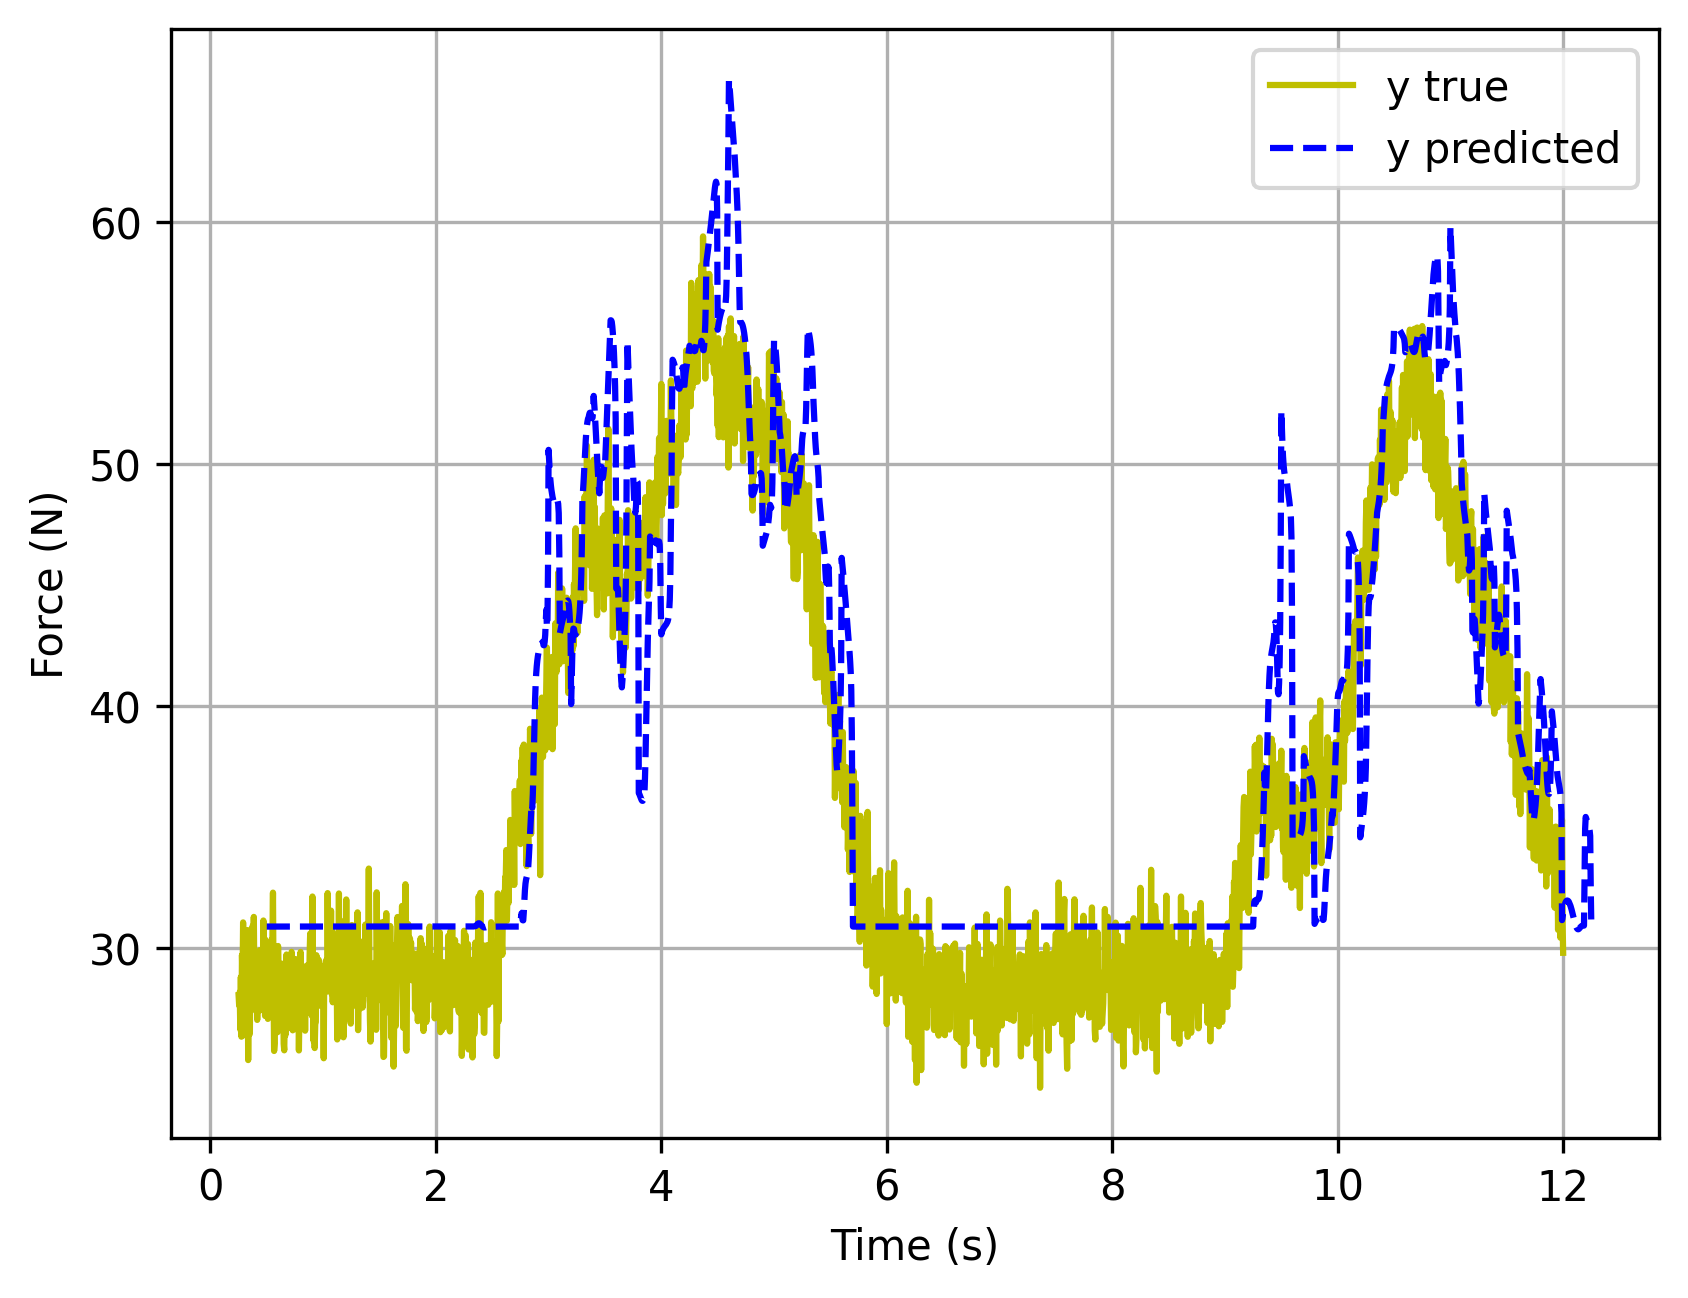
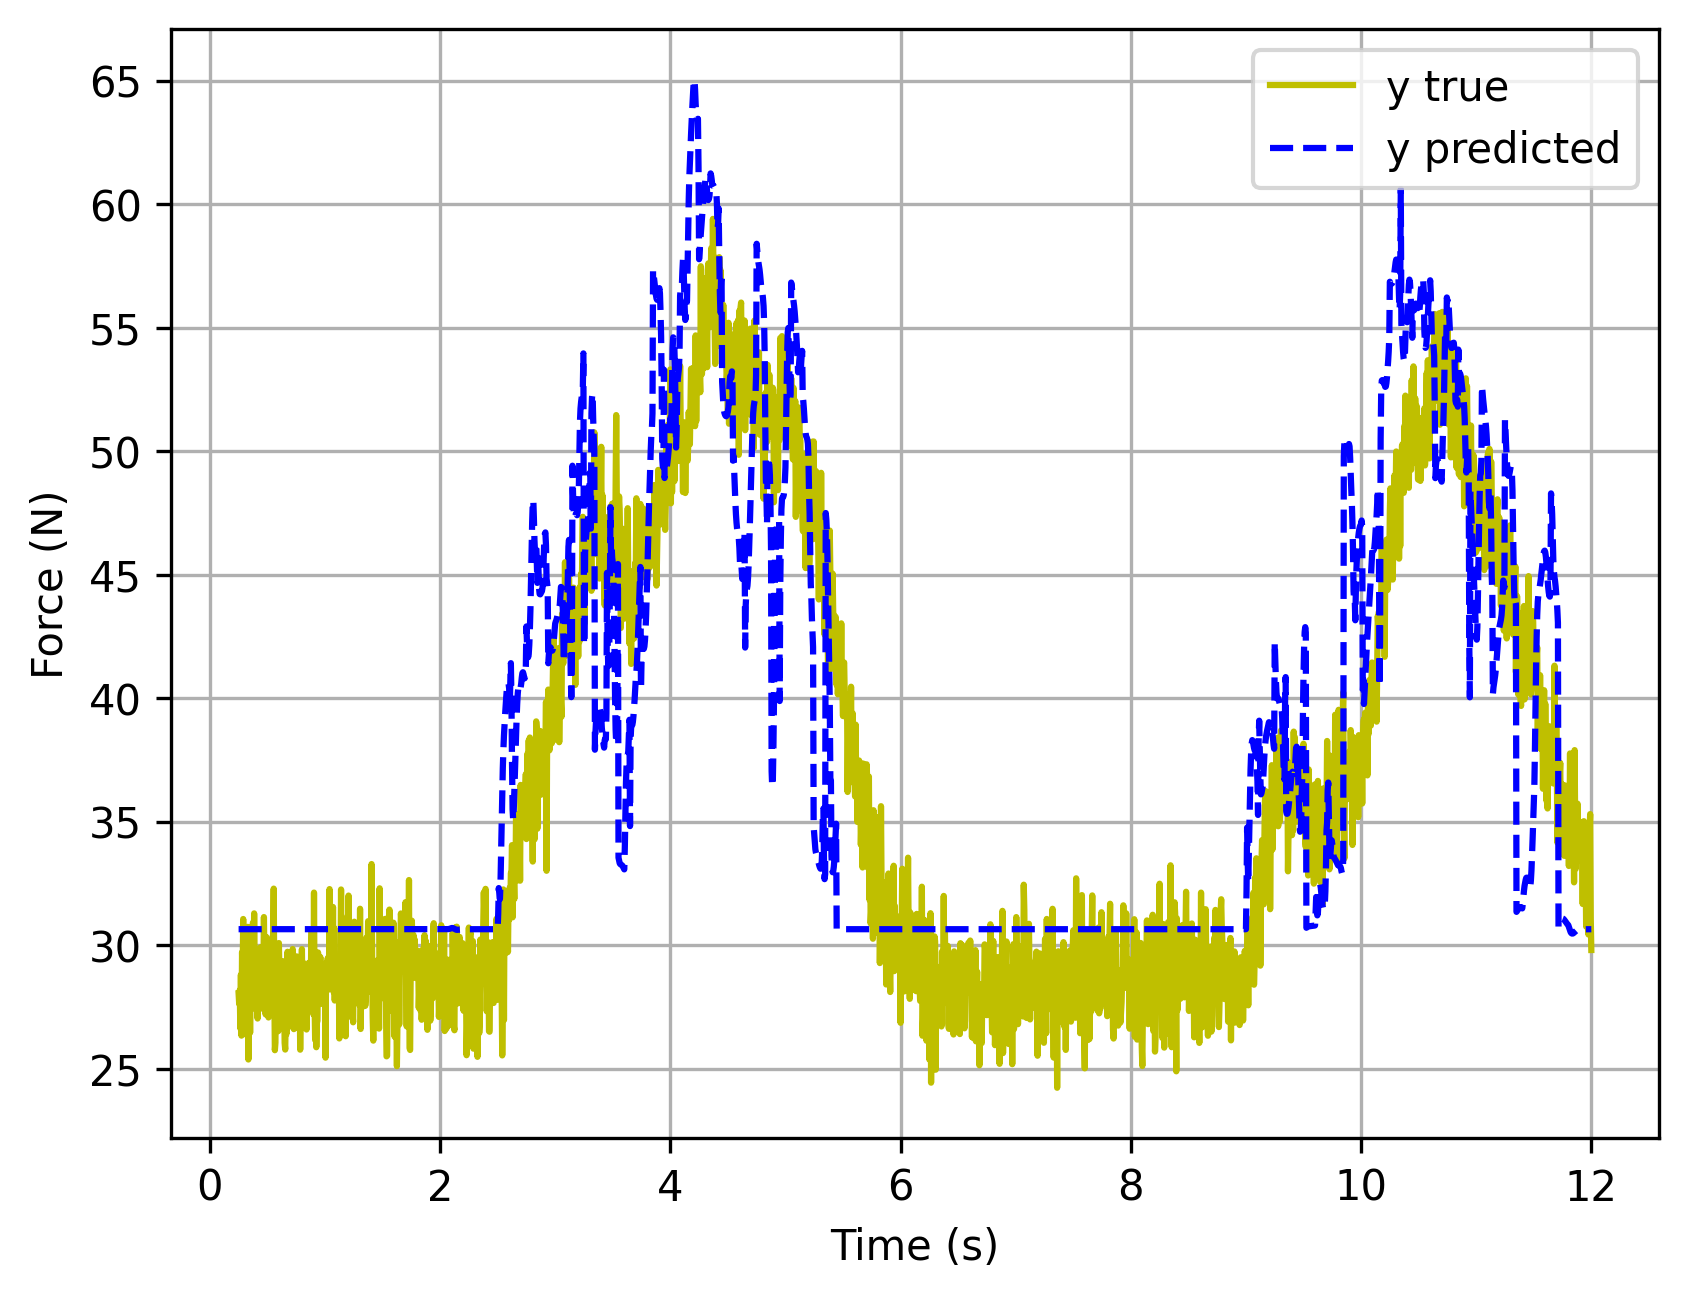
feat: in lstm_v2 using TBPTT sampling and update readme

diff --git a/actuator_lstm_v2.py b/actuator_lstm_v2.py
@@ -7,7 +7,7 @@ import numpy as np
 import torch.optim as optim
 from matplotlib import pyplot as plt
 from typing import Tuple, Optional  # noqa: F401
-
+import random  # 导入 random 模块
 
 BASE_PATH = os.path.dirname(os.path.abspath(__file__))
 
@@ -18,7 +18,7 @@ class Config:
         self.lr = 1e-3
         self.eps = 1e-8
         self.weight_decay = 0.0
-        self.batch_size = 1
+        self.batch_size = 40
         self.num_time_steps = 50
         self.device = "cuda:0"
         self.in_dim = 1
@@ -125,58 +125,49 @@ def train_actuator_network(train_x: None, train_y: None,
     optimizer = optim.Adam(model.parameters(), lr=config.lr,
                            eps=config.eps, weight_decay=config.weight_decay)
 
+    # train_len = train_x.shape[0] - config.num_time_steps -1
     train_len = train_x.shape[0] - config.num_time_steps
 
     for iter in range(config.iterations):
         # prepare batch_size data
+        # start_indices = np.random.randint(0, train_len, size=config.batch_size)
         start_indices = np.random.randint(0, train_len, size=config.batch_size)
 
-        batch_x = []
-        batch_y = []
-
-        for start_idx in start_indices:
-            window_end_idx = start_idx + config.num_time_steps
-            target_idx = window_end_idx
-
-            # 收集一个窗口的输入和一个目标输出
-            batch_x.append(train_x[start_idx:window_end_idx])
-            batch_y.append(train_y[target_idx])
-
-        # 4. 将数据列表堆叠成一个批次张量，并移动到GPU
-        # x shape: [batch_size, num_time_steps, in_dim] -> [10, 50, 1]
-        x = torch.stack(batch_x).to(config.device)
-        # y shape: [batch_size, out_dim] -> [10, 1]
-        y = torch.stack(batch_y).to(config.device)
-
-        # 初始化记忆单元h0，c0永远是 (num_layers, batch_size, hidden_size)
-        h_0 = torch.zeros(config.num_layers, config.batch_size, config.hidden_size).to(config.device)   # 短期（工作）记忆
-        c_0 = torch.zeros(config.num_layers, config.batch_size, config.hidden_size).to(config.device)   # 长期记忆
-        hidden_prev = (h_0, c_0)
-
-        # start_idx = np.random.randint(0, train_len)
-        # # end_idx = start_idx + config.num_time_steps
-        # # 定义输入窗口和目标点
-        # window_end_idx = start_idx + config.num_time_steps
-        # target_idx = window_end_idx     # 目标是窗口结束后的那个点
-
-        # # [seq_len, feature] -> [batch=1, seq_len, feature]
-        # x = train_x[start_idx:window_end_idx].unsqueeze(0).to(config.device)        # x是包含过去N个点的序列
-        # y = train_y[target_idx].unsqueeze(0).to(config.device)                      # y是序列结束后的单个点
-
-        output, _ = model(x, hidden_prev)  # 喂入模型得到输出
-        # hidden_prev = (hidden_prev[0].detach(), hidden_prev[1].detach())
-        last_output = output.squeeze(1)     # 只取序列的最后一个输出用于计算损失
-        # last_output = output[:, -1, :]      # 只取序列的最后一个输出用于计算损失
-
-        # loss = criterion(output, y)  # 计算MSE损失
-        loss = criterion(last_output, y)
+        h = torch.zeros(config.num_layers, config.batch_size, config.hidden_size).to(config.device)     # 短期（工作）记忆
+        c = torch.zeros(config.num_layers, config.batch_size, config.hidden_size).to(config.device)     # 长期记忆
         model.zero_grad()
-        loss.backward()
+
+        # Truncated Backpropagation Through Time（截断式反向传播TBPTT）
+        # 参考 https://lightning.ai/docs/pytorch/stable/common/tbptt.html
+        total_loss = 0
+
+        for t in range(config.num_time_steps):
+            current_x_batch = train_x[start_indices + t].to(config.device)   # Shape: [batch_size, 1]
+            target_y_batch = train_y[start_indices + t].to(config.device)   # Shape: [batch_size, 1]
+
+            current_x_batch = current_x_batch.unsqueeze(1)
+            # 将上一步的隐藏状态分离，避免梯度无限回传
+            hidden_prev = (h.detach(), c.detach())
+
+            pred, (h, c) = model(current_x_batch, hidden_prev)
+
+            loss = criterion(pred.squeeze(1), target_y_batch)
+
+            # 约后面的信号应该预测越准
+            # weight = 0.1 + 0.9 * (t / (config.num_time_steps - 1))
+
+            # loss = loss * weight
+            total_loss += loss.item()
+
+            # 反向传播（可以在每个时间步都做，也可以累积total loss在循环外）
+            loss.backward()
+
         torch.nn.utils.clip_grad_norm_(model.parameters(), max_norm=1.0)
         optimizer.step()
 
-        if iter % 1000 == 0:
-            print("Iteration: {} loss {}".format(iter, loss.item()))
+        if iter % 100 == 0:
+            mae = total_loss / config.num_time_steps / config.output_scale**2
+            print(f"Iteration: {iter} | loss {loss.item()}| mae: {mae:.4f}")
 
     # print total loss
     print(f"Finished Training. Final Loss: {loss.item():.6f}")
@@ -193,7 +184,9 @@ def train_actuator_network(train_x: None, train_y: None,
 parser = argparse.ArgumentParser()
 parser.add_argument("--data", type=str, required=True, help="Path of data files")
 parser.add_argument("--output", type=str, required=True, help="Path to save or load the actuator network model")
+# parser.add_argument("--seed", type=int, default=42, help="Random seed for reproducibility")
 args = parser.parse_args()
+
 data_path = os.path.join(BASE_PATH, args.data)
 output_path = os.path.join(BASE_PATH, args.output)
 current_script_name = os.path.splitext(os.path.basename(__file__))[0]
@@ -227,29 +220,22 @@ model, hidden_prev = train_actuator_network(train_x=train_x, train_y=train_y,
 model = torch.jit.load(policy_path).to("cpu")
 
 # 滑动窗口lstm的隐藏变量每次都要重置，自回归lstm需要保留
-h_0_val = torch.zeros(config.num_layers, config.batch_size, config.hidden_size).cpu()
-c_0_val = torch.zeros(config.num_layers, config.batch_size, config.hidden_size).cpu()
+h_0_val = torch.zeros(config.num_layers, 1, config.hidden_size).cpu()
+c_0_val = torch.zeros(config.num_layers, 1, config.hidden_size).cpu()
 hidden_prev = (h_0_val, c_0_val)
 predictions = []
 
-# 遍历验证集，使用滑动窗口进行预测
-for i in range(val_x.shape[0] - config.num_time_steps):
-    # 构造输入窗口
-    start_idx = i
-    end_idx = i + config.num_time_steps
-    input_window = val_x[start_idx:end_idx].unsqueeze(0)    # Shape: [1, num_time_steps, 1]
 
-    # 初始化隐藏状态
-    h_0_val = torch.zeros(config.num_layers, 1, config.hidden_size)
-    c_0_val = torch.zeros(config.num_layers, 1, config.hidden_size)
-    hidden_prev = (h_0_val, c_0_val)
+# online prediction
+for i in range(val_x.shape[0] - config.num_time_steps):
+    # 当前时间点的输入
+    current_input = val_x[i, :].unsqueeze(0).unsqueeze(0)
 
     # 进行预测
-    pred, hidden_prev = model(input_window, hidden_prev)
+    pred, hidden_prev = model(current_input, hidden_prev)
 
     # pred 的形状是 [1, 1, 1]，我们直接取出数值
     predictions.append(pred.item())
-
 
 # 准备绘图用的真实值 y
 # 预测是从第 num_time_steps 个点开始的

diff --git a/actuator_net_mlp.py b/actuator_net_mlp.py
@@ -230,13 +230,16 @@ def train_actuator_network_and_plot_predictions(data_path, actuator_network_path
     tau_ests = data_dict["tau_est_"][step:step + len(tau_preds)]
     tau_preds = tau_preds[:plot_length]
 
-    fig, axs = plt.subplots(6, 2, figsize=(14, 6))
+    fig, axs = plt.subplots((num_motors + 1) // 2, 2, figsize=(14, 6))
     axs = np.array(axs).flatten()
     for i in range(num_motors):
         axs[i].plot(timesteps[:plot_length], tau_cals[:plot_length, i], label="Calculated torque")
         axs[i].plot(timesteps[:plot_length], tau_ests[:plot_length, i], label="Real torque")
         axs[i].plot(timesteps[:plot_length], tau_preds[:plot_length, i], label="Predicted torque", linestyle="--")
     fig.legend(["Calculated torque", "Real torque", "Predicted torque"], loc='upper right', bbox_to_anchor=(1, 1))
+    if num_motors % 2 != 0:
+        axs[-1].axis('off')
+
     plt.show()
 
 
@@ -264,6 +267,7 @@ def main():
         load_pretrained_model=load_pretrained_model,
         config=config,
     )
+
 
 if __name__ == "__main__":
     main()

diff --git a/actuator_lstm.py b/actuator_lstm.py
@@ -267,7 +267,8 @@ if config.using_real_data:
     val_y = val_y.data.numpy()
 
     plt.plot(time_steps, val_y.ravel(), c='y', label='y true')  # y值
-    plt.plot(time_steps+config.num_time_steps*config.dt, predictions, c='b', label='y predicted')  # y的预测值
+    plt.plot(time_steps+config.num_time_steps*config.dt, predictions,
+             c='b', label='y predicted', linestyle='--')  # y的预测值
     plt.legend()
     plt.savefig(figure_path, dpi=300, bbox_inches='tight')
     plt.show()

diff --git a/disp_trained_lstm.py b/disp_trained_lstm.py
@@ -1,5 +1,11 @@
 import torch
 
+""" 可视化anymal的电机lstm,大致确定网络结构
+ref: 
+Rudin, N., Hoeller, D., et.al (2021). Learning to walk in minutes using massively
+    parallel deep reinforcement learning.
+https://github.com/leggedrobotics/legged_gym
+"""
 actuator_network_path = "pretrained_actuator_nets/anydrive_v3_lstm.pt"
 # actuator_network_path = "train_turbo_csv/fly_robot_LPV.pt"
 model = torch.jit.load(actuator_network_path).to("cpu")

diff --git a/README.md b/README.md
@@ -11,18 +11,19 @@ pip install numpy==1.23.5 pandas==2.3.1
 
 # example mlp
 ```bash
-<!-- python3 actuator_net_mlp.py --mode train --data train_motor_csv/test.csv --output train_motor_csv/motor_test.pt -->
 python3 actuator_net_mlp.py --mode train --data train_motor_csv/robot_data_04_11_13_24_Ankle.csv --output train_motor_csv/motor_Ankle.pt
 ```
+<div style="text-align: center;">
+  <img src="images/actuator_mlp_figure.png" alt="mlp" >
+</div>
 
-# for ymbot
+# for ymbot-E
 ```bash
 python3 actuator_net_mlp.py --mode train --data train_motor_csv/robot_data_04_11_13_24_Ankle.csv --output train_motor_csv/motor_Ankle.pt
 python3 actuator_net_mlp.py --mode train --data train_motor_csv/robot_data_04_11_13_24_HipKnee.csv --output train_motor_csv/motor_HipKnee.pt
 python3 actuator_net_mlp.py --mode train --data train_motor_csv/robot_data_04_11_13_24.csv --output train_motor_csv/motor_all.pt
 
 # after training change mode to play
-
 python3 actuator_net_mlp.py --mode play --data train_motor_csv/robot_data_04_11_13_24_Ankle.csv --output train_motor_csv/motor_Ankle.pt
 python3 actuator_net_mlp.py --mode play --data train_motor_csv/robot_data_04_11_13_24_HipKnee.csv --output train_motor_csv/motor_HipKnee.pt
 python3 actuator_net_mlp.py --mode play --data train_motor_csv/robot_data_04_11_13_24.csv --output train_motor_csv/motor_all.pt
@@ -35,21 +36,33 @@ python3 test_lstm.py
 python3 actuator_rnn.py --data train_turbo_csv/fly_robot_LPV_data.csv --output train_turbo_csv/fly_robot_LPV.pt
 ```
 
-# v0 SISO-lstm，拟合效果差，抖动明显
+# v0 SISO-lstm
+（自回归），拟合效果差，抖动明显
 ```bash
 python3 actuator_lstm.py --data train_turbo_csv/fly_robot_LPV_data.csv --output train_turbo_csv
 ```
 <div style="text-align: center;">
-  <img src="images/actuator_lstm_figure.png" alt="lstm_v0" width="300">
+  <img src="images/actuator_lstm_figure.png" alt="lstm_v0" width="500">
 </div>
 
 
 # v1 滑动窗口（2x lstm + 1x mlp）
 ```bash
-
 python3 actuator_lstm_v1.py --data train_turbo_csv/fly_robot_LPV_data.csv --output train_turbo_csv
 ```
 <div style="text-align: center;">
-  <img src="images/actuator_lstm_v1_figure.png" alt="lstm_v1" width="300">
+  <img src="images/actuator_lstm_v1_figure.png" alt="lstm_v1" width="500">
 </div>
 
+
+# v2 online lstm
+主要靠hidden state，减少了推理消耗，训练时使用TBPTT，训练时长较久
+loss weight 逐渐变大，更专注于未来推断的准确率
+num_time_steps暂定50*0.005s=0.25s，等真机实验后要分析涡喷推力与多少时间前的输入的相关性再确定该值。
+```bash
+python3 actuator_lstm_v2.py --data train_turbo_csv/fly_robot_LPV_data.csv --output train_turbo_csv
+```
+
+<div style="text-align: center;">
+  <img src="images/actuator_lstm_v2_figure.png" alt="lstm_v2" width="500">
+</div>
